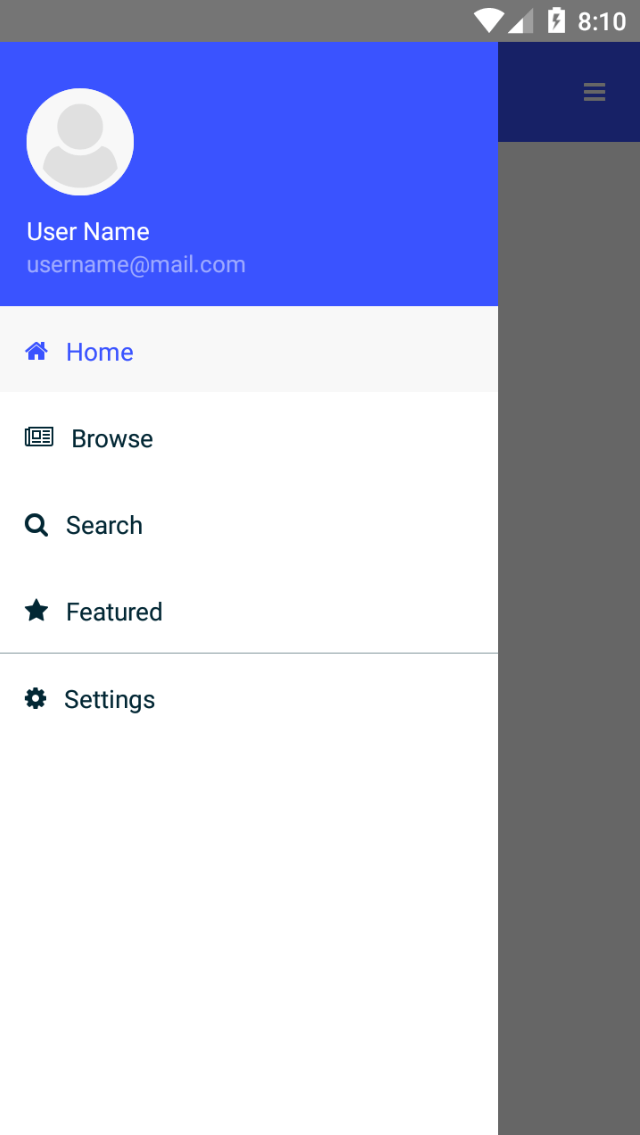
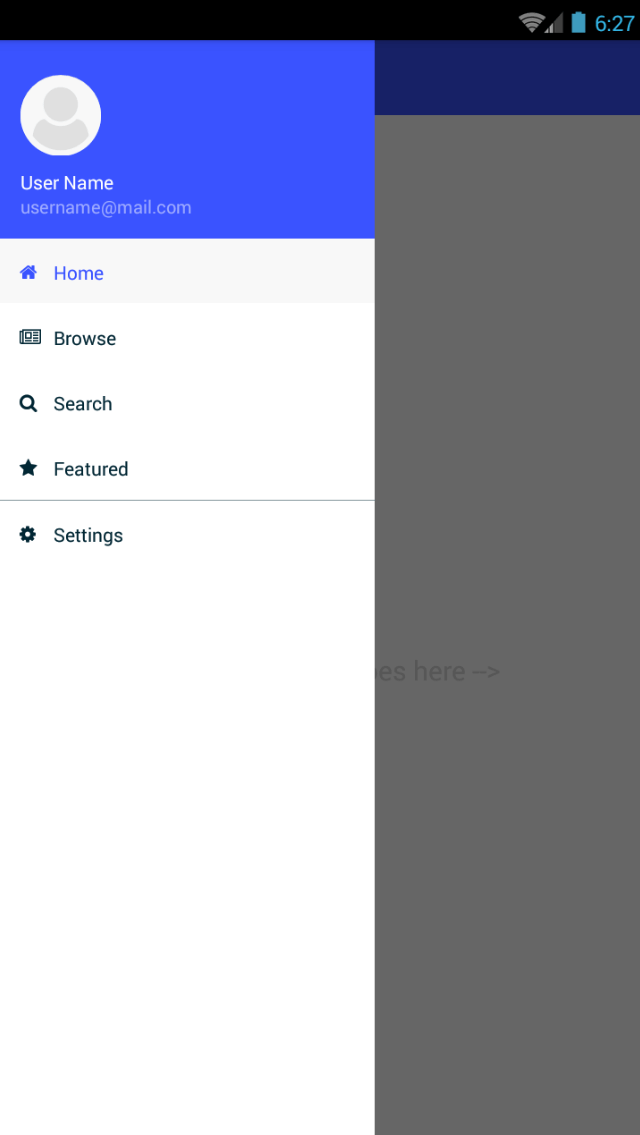
Assets images (#17)
* Assets image

Update images for "create app" in the Fusion ui
Add new images for readme with phone

* Convert to 8bit png

diff --git a/README.md b/README.md
@@ -3,7 +3,7 @@ App templates help you jump start your native cross-platform apps with built-in 
 
 App template featuring a Side Drawer component for navigation.
 
-<img src="/tools/assets/drawer-ios.png" height="400" /> <img src="/tools/assets/drawer-android.png" height="400" />
+<img src="/tools/assets/phone-drawer-ios.png" height="400" /> <img src="/tools/assets/phone-drawer-android.png" height="400" />
 
 ## Key Features
 - Side drawer navigation
